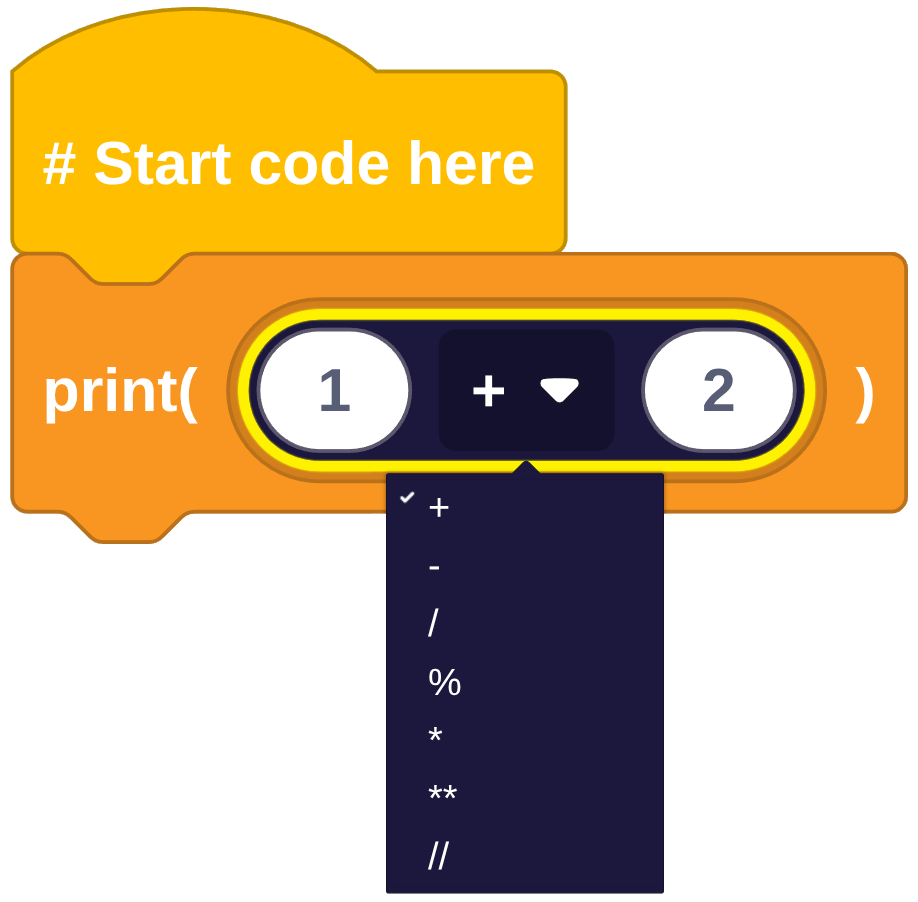
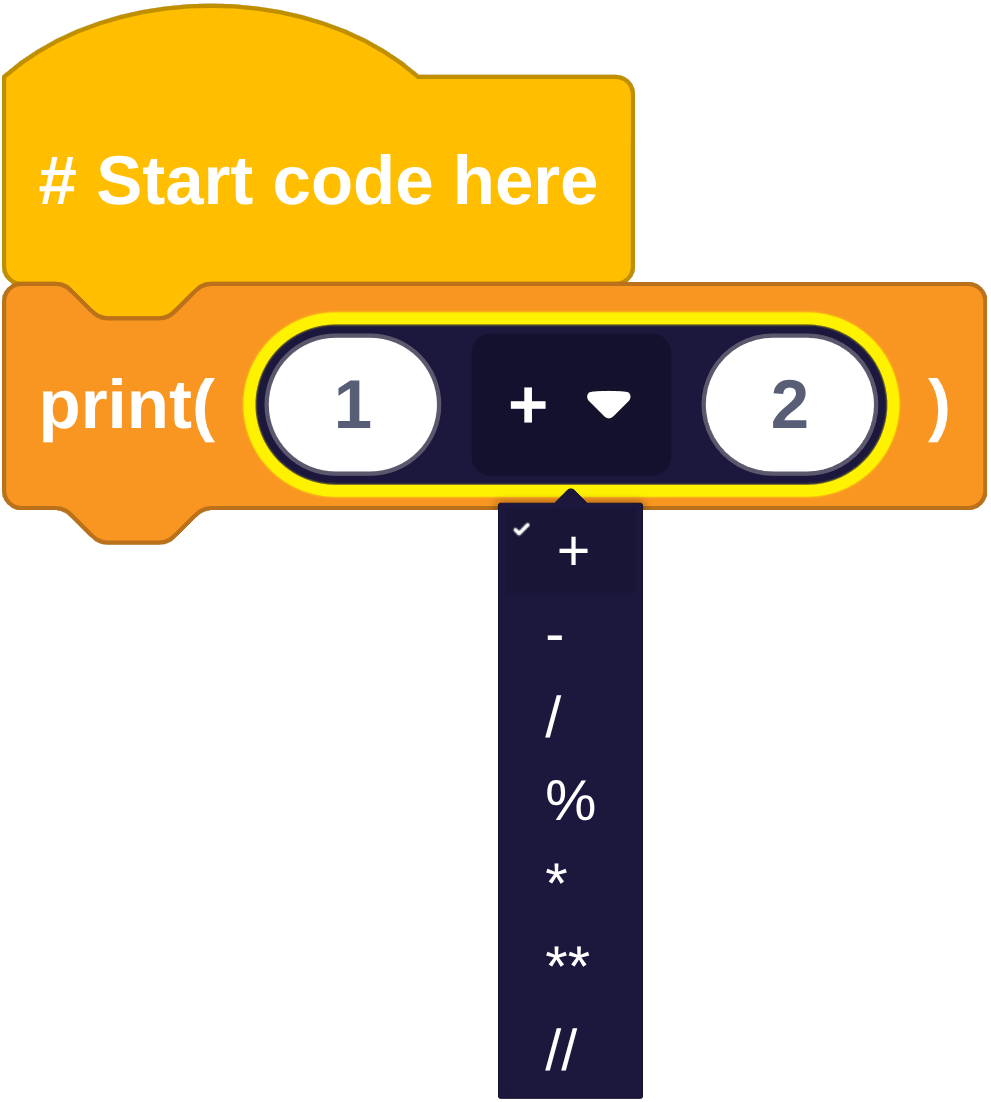
[Python] Modificaciones estéticas
Pequeñas modificaciones visuales, modificando tamaño de imágenes y poco
más.

diff --git a/otros/introduccion_programacion/6_operadores_basicos.md b/otros/introduccion_programacion/6_operadores_basicos.md
@@ -22,16 +22,23 @@ Sirven para hacer **operaciones matemáticas**, por lo que se utilizan con tipos
 
 Table: {tablename=yukitblr colspec=XXXX}
 
+
 Hay que tener en cuenta que:
 
+
+::::::::::::::: {.columns }
+:::: {.column width="68%"}
 - La división **[/]{.verbatim}** siempre da un número con decimales (**float**), aunque sea exacta.
 - La división entera **[//]{.verbatim}** dará el resultado sin contar los decimales, y genera un **int**.
 - El módulo **[%]{.verbatim}** dará el resto de la división, en tipo **int**.
 - Si se combinan dos tipos de datos, el resultado usará el tipo de datos necesario para poder mostrar el resultado.
+::::
+:::: {.column width="30%"}
+![](img/introduccion_programacion/edublocks/edublocks_operators_arithmetic.png){width="100%"}
+::::
+:::::::::::::::
 
-En Edublocks estas operaciones están en el apartado **Math**, y se puede seleccionar el operador a través de un desplegable:
-
-![](img/introduccion_programacion/edublocks/edublocks_operators_arithmetic.png){width="60%"}
+En Edublocks estas operaciones están en el apartado **Math**, y se puede seleccionar el operador a través de un desplegable.
 
 
 ::: exercisebox
@@ -58,7 +65,7 @@ Table: {tablename=yukitblr colspec=XXXX}
 
 Todos los ejemplos utilizados son con números, pero lo habitual es hacer uso de variables. En Edublocks está en el grupo **Logic**.
 
-![](img/introduccion_programacion/edublocks/edublocks_operators_logic.png){width="60%"}
+![](img/introduccion_programacion/edublocks/edublocks_operators_logic.png){width="30%"}
 
 
 ::: exercisebox
@@ -108,7 +115,7 @@ Sirven para **combinar condiciones**. En el siguiente capítulo los entenderemos
 
 Table: {tablename=yukitblr colspec=X[1]X[2]X[2]X[1]}
 
-![](img/introduccion_programacion/edublocks/edublocks_operators_logic2.png){width="80%"}
+![](img/introduccion_programacion/edublocks/edublocks_operators_logic2.png){width="60%"}
 
 
 ::: exercisebox

diff --git a/otros/introduccion_programacion/4_entrada_salida.md b/otros/introduccion_programacion/4_entrada_salida.md
@@ -5,7 +5,7 @@ Aunque ya hemos visto previamente un ejemplo de cómo mostrar datos, vamos a exp
 
 ::::::::::::::: {.columns }
 :::: {.column width="48%"}
-![](img/introduccion_programacion/edublocks/edublocks_print_1.png){width="70%"}
+![](img/introduccion_programacion/edublocks/edublocks_print_1.png){width="40%"}
 ::::
 :::: {.column width="48%"}
 
@@ -81,7 +81,9 @@ Si intentamos usar una variable que no existe, tendremos un error al ejecutar nu
 
 ## Concatenar datos con print() {#concatenar-datos}
 
-**Print** es una función que permite que pasemos más de un parámetro, para poder sacar por pantalla más datos con la misma instrucción. En el grupo de bloques "**Text**" tenemos un bloque para poder añadir más textos al *print*.
+**Print** es una función que permite que pasemos más de un parámetro, para poder sacar por pantalla más datos con la misma instrucción.
+
+En el grupo de bloques "**Text**" tenemos un bloque para poder añadir más textos al *print*, entre los que también podemos añadir variables.
 
 ::::::::::::::: {.columns }
 :::: {.column width="58%"}

diff --git a/otros/introduccion_programacion/3_python.md b/otros/introduccion_programacion/3_python.md
@@ -68,7 +68,7 @@ Para crear una variable en EduBlocks tenemos que:
 
 ::::::::::::::: {.columns }
 :::: {.column width="48%"}
-![Para asignar valor a la variable](img/introduccion_programacion/edublocks/edublocks_variable_assign.png){width="70%"}
+![Para asignar valor a la variable](img/introduccion_programacion/edublocks/edublocks_variable_assign.png){width="80%"}
 ::::
 :::: {.column width="48%"}
 ![Para usar el valor de la variable](img/introduccion_programacion/edublocks/edublocks_variable.png){width="70%"}
@@ -79,7 +79,7 @@ En Python las variables se definen de forma dinámica. Esto quiere decir que no 
 
 ::::::::::::::: {.columns }
 :::: {.column width="48%"}
-![Para asignar valor a la variable](img/introduccion_programacion/edublocks/edublocks_input.png){width="70%"}
+![](img/introduccion_programacion/edublocks/edublocks_input.png){width="90%"}
 ::::
 :::: {.column width="48%"}
 
